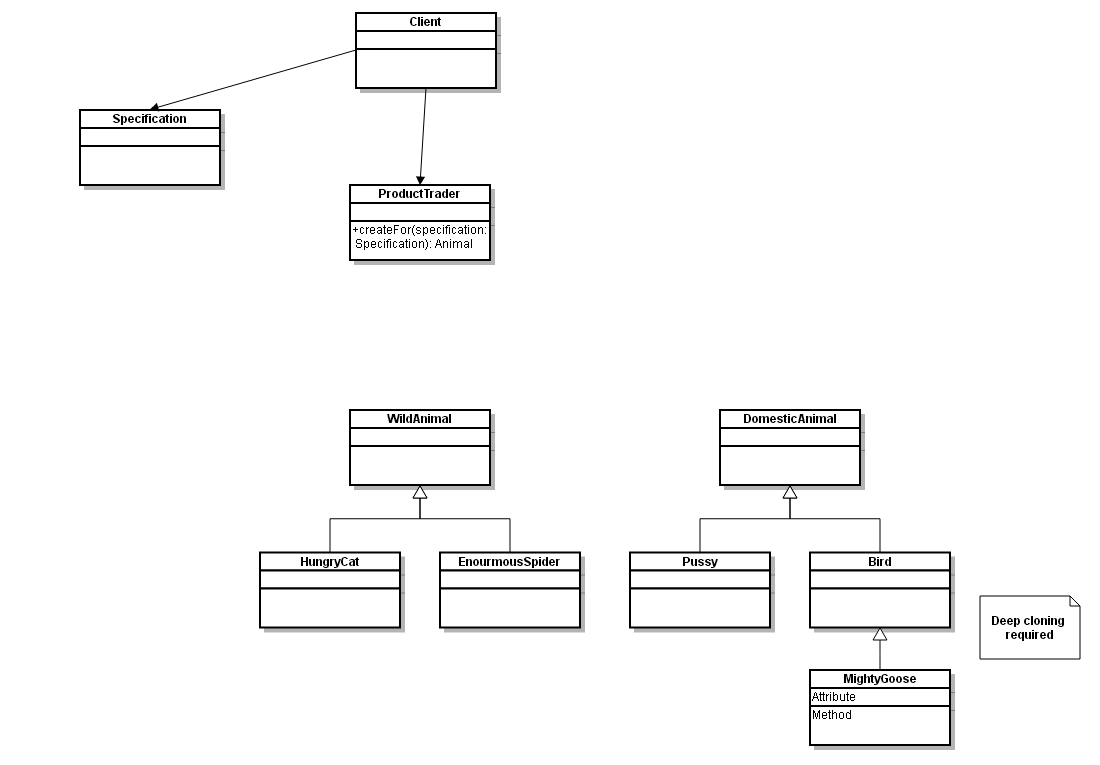
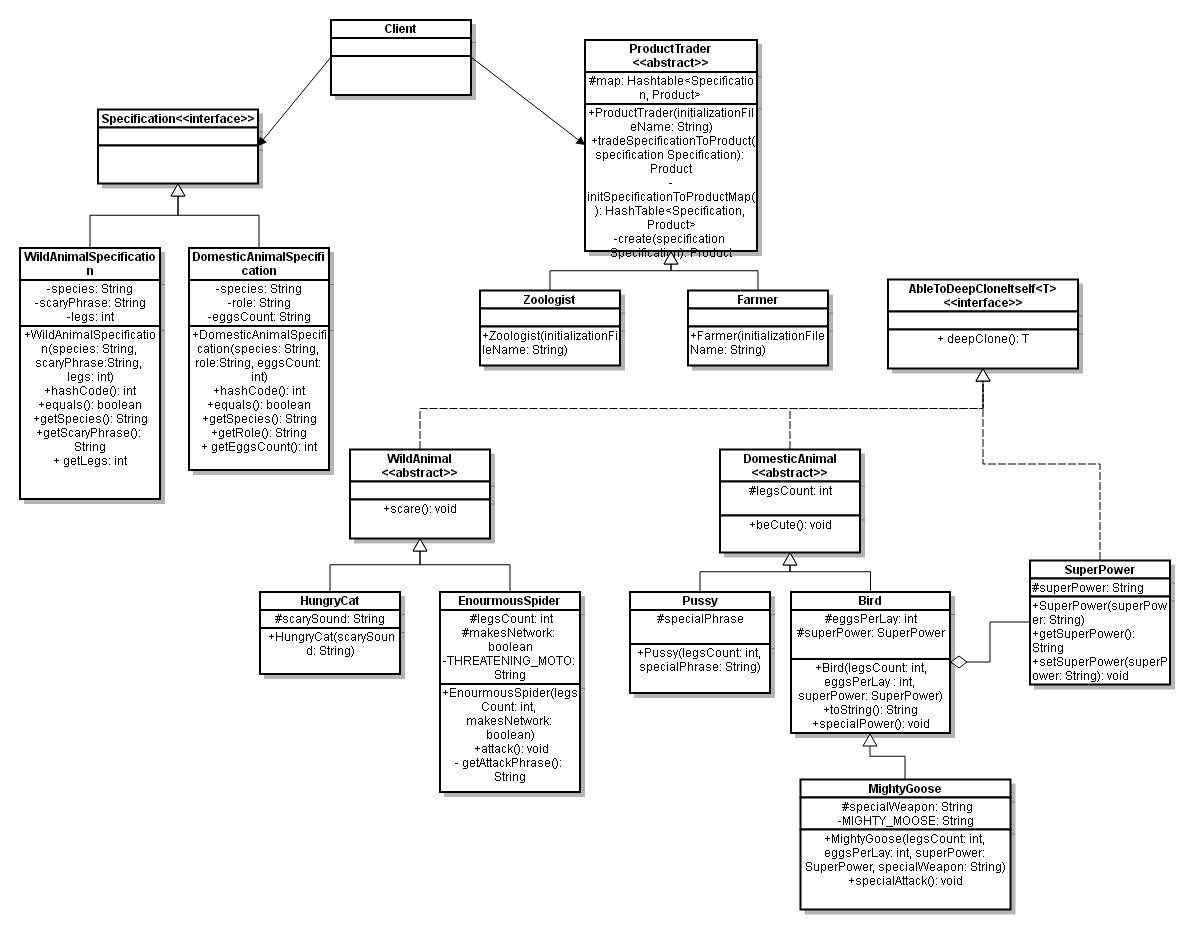
Update UML diagram, refactor

Changed region(s): [[0.0, 0.0, 0.9891, 0.9922], [0.3091, 0.0301, 0.7109, 0.4209], [0.7418, 0.3007, 0.9273, 0.451]]

diff --git a/ObjectiveTechnologies/ProductTrader/src/com/toohightoplay/vu/mif/ot2/trader/ProductTrader.java b/ObjectiveTechnologies/ProductTrader/src/com/toohightoplay/vu/mif/ot2/trader/ProductTrader.java
@@ -2,30 +2,41 @@ package com.toohightoplay.vu.mif.ot2.trader;
 
 import java.util.Hashtable;
 
-import com.toohightoplay.vu.mif.ot2.specification.Specification;
-
 /**
  * Product trader
  * 
  * @author TooHighToPlay
  * 
  */
-public abstract class ProductTrader<S, T> {
+public abstract class ProductTrader<Specification, Product> {
 
-	protected Hashtable<S, T> map;
+	protected Hashtable<Specification, Product> map;
 
 	private final String initializationFileName;
 
 	public ProductTrader(String initializationFileName) {
 		this.initializationFileName = initializationFileName;
-		map = new Hashtable<S, T>();
+		map = new Hashtable<Specification, Product>();
 		initSpecificationToProductMap();
 	}
 
-	private static <T, V> Hashtable<Specification, T> initSpecificationToProductMap() {
+	public Product tradeSpecificationToProduct(Specification specification) {
+		return map.get(specification);
+	}
+
+	/**
+	 * Initialise state from user config file.
+	 */
+	private Hashtable<Specification, Product> initSpecificationToProductMap() {
 
 		// XXX: add smth
 
 		return null;
 	}
+
+	private Product create(Specification specification) {
+
+		return null;
+	}
+
 }

diff --git a/ObjectiveTechnologies/ProductTrader/src/com/toohightoplay/vu/mif/ot2/trader/Farmer.java b/ObjectiveTechnologies/ProductTrader/src/com/toohightoplay/vu/mif/ot2/trader/Farmer.java
@@ -1,4 +1,5 @@
 package com.toohightoplay.vu.mif.ot2.trader;
+
 import com.toohightoplay.vu.mif.ot2.products.DomesticAnimal;
 import com.toohightoplay.vu.mif.ot2.specification.DomesticAnimalSpecification;
 
@@ -10,14 +11,11 @@ import com.toohightoplay.vu.mif.ot2.specification.DomesticAnimalSpecification;
  * @author TooHighToPlay
  * 
  */
-public class Farmer {
+public class Farmer extends
+		ProductTrader<DomesticAnimalSpecification, DomesticAnimal> {
 
-	/**
-	 * Creator.
-	 */
-	public DomesticAnimal create(DomesticAnimalSpecification specification) {
-
-		return null;
+	public Farmer(String initializationFileName) {
+		super(initializationFileName);
 	}
 
 }

diff --git a/ObjectiveTechnologies/ProductTrader/src/com/toohightoplay/vu/mif/ot2/trader/Zoologist.java b/ObjectiveTechnologies/ProductTrader/src/com/toohightoplay/vu/mif/ot2/trader/Zoologist.java
@@ -1,4 +1,5 @@
 package com.toohightoplay.vu.mif.ot2.trader;
+
 import com.toohightoplay.vu.mif.ot2.products.WildAnimal;
 import com.toohightoplay.vu.mif.ot2.specification.WildAnimalSpecification;
 
@@ -10,13 +11,11 @@ import com.toohightoplay.vu.mif.ot2.specification.WildAnimalSpecification;
  * @author TooHighToPlay
  * 
  */
-public class Zoologist {
+public class Zoologist extends
+		ProductTrader<WildAnimalSpecification, WildAnimal> {
 
-	/**
-	 * Creator.
-	 */
-	public WildAnimal create(WildAnimalSpecification specification) {
-
-		return null;
+	public Zoologist(String initializationFileName) {
+		super(initializationFileName);
 	}
+
 }

diff --git a/ObjectiveTechnologies/ProductTrader/src/com/toohightoplay/vu/mif/ot2/Client.java b/ObjectiveTechnologies/ProductTrader/src/com/toohightoplay/vu/mif/ot2/Client.java
@@ -48,7 +48,8 @@ public class Client {
 	 * }
 	 */
 
-	public static void main(String[] args) {
+	public static void main(String[] args) throws ClassNotFoundException {
+
 		Class newClass = null;
 		Object newObject = null;
 		Constructor cons = null;
